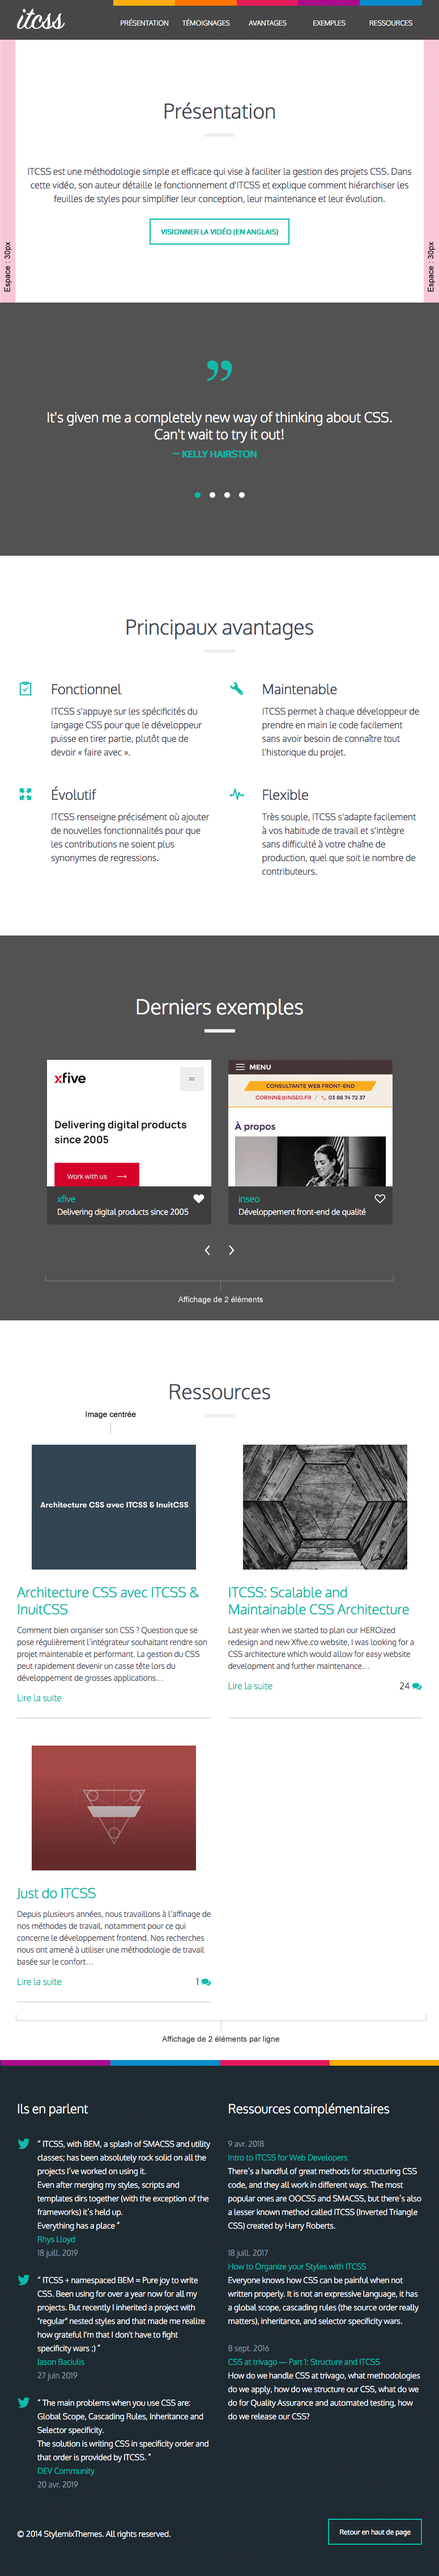
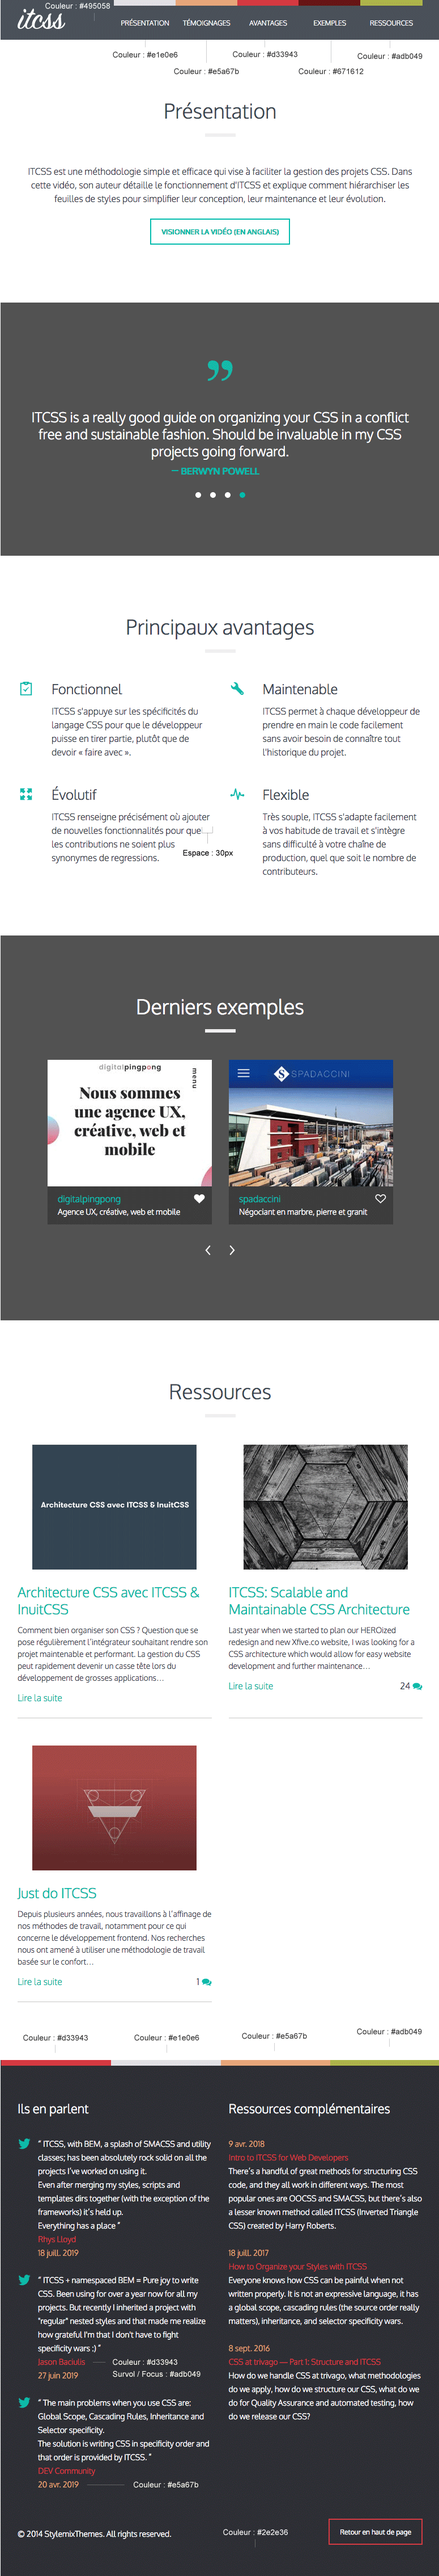
Exercice 3 : Ajouter un thème alternatif

diff --git a/exercice/content/index.html b/exercice/content/index.html
@@ -225,9 +225,9 @@
     <section class="c-section" id="asset">
       <div class="o-wrapper">
         <h2 class="c-h1">Ressources</h2>
-        <div class="o-layout">
-          <div class="o-layout__item o-layout__item--third c-card">
-            <a href="#" tabindex="-1">
+        <div class="o-layout o-layout--wrap@m">
+          <div class="o-layout__item o-layout__item--third o-layout__item--half@m c-card">
+            <a class="u-txt-center" href="#" tabindex="-1">
               <img class="c-card__img" src="img/ITCSS&InuitCSS.png" alt="Architecture CSS avec ITCSS & InuitCSS" />
             </a>
             <h3 class="c-h2">
@@ -238,8 +238,8 @@
               <a href="#" tabindex="-1">Lire la suite</a>
             </span>
           </div>
-          <div class="o-layout__item o-layout__item--third c-card">
-            <a href="#" tabindex="-1">
+          <div class="o-layout__item o-layout__item--third o-layout__item--half@m c-card">
+            <a class="u-txt-center" href="#" tabindex="-1">
               <img class="c-card__img" src="img/xfive.jpg" alt="ITCSS: Scalable and Maintainable CSS Architecture" />
             </a>
             <h3 class="c-h2">
@@ -254,8 +254,8 @@
               </span>
             </span>
           </div>
-          <div class="o-layout__item o-layout__item--third c-card">
-            <a href="#" tabindex="-1">
+          <div class="o-layout__item o-layout__item--third o-layout__item--half@m c-card">
+            <a class="u-txt-center" href="#" tabindex="-1">
               <img class="c-card__img" src="img/justdoITCSS.jpg" alt="Just do ITCSS" />
             </a>
             <h3 class="c-h2">
@@ -341,7 +341,12 @@
       type: 'carousel',
       startAt: 0,
       perView: 3,
-      gap: 30
+      gap: 30,
+      breakpoints: {
+        991: {
+          perView: 2
+        }
+      }
     }).mount();
     new Glide('.js-glide--testimony', {
       type: 'carousel',

diff --git a/helpers/_settings.color.scss b/helpers/_settings.color.scss
@@ -1,0 +1,60 @@
+@if $toc {
+  /* - Color____________________Default colors */
+} @else {
+  /* Colors (settings)
+    ========================================================================== */
+
+  /**
+  * @note Colors are named thanks to the [Chir.ag’s Name that Color utility](http://chir.ag/projects/name-that-color/).
+  */
+
+  :root {
+    // Definition (color)
+    --amaranth: #e51c5e;
+    --blaze-orange: #fc7100;
+    --caribbean-green: #02baab;
+    --cerulean: #0c8fcc;
+    --ebony-clay: #1f2a32;
+    --regent-gray: #85939f;
+    --tundora: #474747;
+    --violet-eggplant: #ae0f8d;
+    --yellow-sea: #ffae00;
+
+    // Definition (function)
+    --gradient: linear-gradient(
+      to right,
+      var(--violet-eggplant) 25%,
+      var(--cerulean) 25%,
+      var(--cerulean) 50%,
+      var(--amaranth) 50%,
+      var(--amaranth) 75%,
+      var(--yellow-sea) 75%,
+      var(--yellow-sea) 100%
+    );
+
+    /** Abbreviations
+    /*  - bgc => background-color
+    /*  - bgi => background-image
+    /*  - bdc => border-color
+    /*  - txt => text (color)
+    */
+
+    // Assignation (components)
+    --button--dark-bdc: var(--caribbean-green);
+    --button--dark-focus-hover-bdc: var(--yellow-sea);
+
+    --footer-bgc: var(--ebony-clay);
+    --footer__before-bgi: var(--gradient);
+    --footer__link-txt: var(--caribbean-green);
+    --footer__link-focus-hover-txt: var(--yellow-sea);
+    --footer__date-txt: var(--regent-gray);
+
+    --header-bgc: var(--tundora);
+
+    --nav__item--presentation: var(--yellow-sea);
+    --nav__item--testimony: var(--blaze-orange);
+    --nav__item--benefit: var(--amaranth);
+    --nav__item--example: var(--violet-eggplant);
+    --nav__item--asset: var(--cerulean);
+  }
+}

diff --git a/exercice/assets/styles/objects/_objects.layout.scss b/exercice/assets/styles/objects/_objects.layout.scss
@@ -31,4 +31,18 @@
   .o-layout--wrap .o-layout__item--half:nth-child(-n + 2) {
     margin-bottom: rem(48); // 48px
   }
+
+  // Specific layout on medium breakpoint
+  // Until 992px (lower or equal to 991px)
+  @media screen and (max-width: 61.9375rem) {
+    .o-layout--wrap\@m {
+      flex-wrap: wrap;
+    }
+    .o-layout__item--half\@m {
+      width: calc(100% / 2 - (1.875rem * 1 / 2)); // 1.875rem = 30px
+    }
+    .o-layout--wrap\@m .o-layout__item--half\@m:nth-child(-n + 2) {
+      margin-bottom: rem(48); // 48px
+    }
+  }
 }

diff --git a/exercice/assets/styles/objects/_objects.wrapper.scss b/exercice/assets/styles/objects/_objects.wrapper.scss
@@ -10,8 +10,16 @@
   */
 
   .o-wrapper {
-    margin-right: auto;
-    margin-left: auto;
-    max-width: rem(930); // 930px
+    padding-right: rem(30); // 30px
+    padding-left: rem(30); // 30px
+
+    // From 992px (992px or higher)
+    @media screen and (min-width: 62rem) {
+      margin-right: auto;
+      margin-left: auto;
+      padding-right: 0;
+      padding-left: 0;
+      max-width: rem(930); // 930px
+    }
   }
 }

diff --git a/exercice/assets/styles/components/_components.footer.scss b/exercice/assets/styles/components/_components.footer.scss
@@ -23,7 +23,7 @@
     top: 0;
     left: 50%;
     height: rem(10); // 10px
-    width: rem(930); // 930px
+    width: 100%;
     transform: translateX(-50%);
     background-image: linear-gradient(
       to right,
@@ -35,6 +35,11 @@
       #ffae00 75%,
       #ffae00 100%
     );
+
+    // From 992px (992px or higher)
+    @media screen and (min-width: 62rem) {
+      width: rem(930); // 930px
+    }
   }
 
   .c-footer__list {

diff --git a/exercice/assets/styles/components/_components.glide-theme.scss b/exercice/assets/styles/components/_components.glide-theme.scss
@@ -57,6 +57,13 @@
   .glide--arrow {
     display: flex;
     flex-direction: column;
+
+    // Until 992px (lower or equal to 991px)
+    @media screen and (max-width: 61.9375rem) {
+      margin-right: auto;
+      margin-left: auto;
+      width: rem(610); // 610px
+    }
   }
 
   .glide--arrow .glide {

diff --git a/exercice/assets/styles/utilities/_utilities.text-center.scss b/exercice/assets/styles/utilities/_utilities.text-center.scss
@@ -1,0 +1,11 @@
+@if $toc {
+  /* - Text center______________Text align center helper classes */
+} @else {
+  /* Text align center (utility)
+   ========================================================================== */
+
+  .u-txt-center {
+    display: block;
+    text-align: center;
+  }
+}

diff --git a/exercice/assets/styles/toc.css b/exercice/assets/styles/toc.css
@@ -41,3 +41,4 @@
 /*
 /* UTILITIES */
 /* - Margin___________________Simple margin helper classes */
+/* - Text center______________Text align center helper classes */

diff --git a/exercice/ENONCE.md b/exercice/ENONCE.md
@@ -1,13 +1,11 @@
-# Exercice 2 : Ajouter un soupçon de responsive
+# Exercice 3 : Ajouter un thème alternatif
 
 <!--
 SI TU UTILISES UN ÉDITEUR CAPABLE DE PRÉVISUALISER MARKDOWN,
 FAIS-LE.  PAR EXEMPLE, DANS VS CODE, CMD/CTRL+SHIFT+V AFFICHE LA PRÉVISUALISATION.
 -->
 
-La page n'est pas vraiment responsive… On va donc faire une petite mise à jour en commençant par mettre en place un premier *breakpoint* à 992px.
-
-Pour cela, on aura recours aux _media queries_.
+Et si on mettait en place un thème de Noël, en se reposant sur le mécanisme des [propriétés personnalisées CSS](https://developer.mozilla.org/fr/docs/Web/CSS/Using_CSS_custom_properties) ?
 
 ## Résultat attendu
 
@@ -15,18 +13,20 @@ Pour cela, on aura recours aux _media queries_.
 
 ## Tâches de cet exercice
 
-Sous ce _breakpoint_ :
-
-1. La section « Principaux avantages » doit s'afficher correctement sur deux colonnes ;
-2. Le carrousel « Derniers exemples » passe de trois à deux colonnes, ce qui nécessite de remplacer l’invocation de Glide.js en bas de `index.html` par celle fournie dans [`helpers/glide.js`](../helpers/glide.js) ;
-3. La section « Ressources » passe elle aussi à deux colonnes, ce qui implique de modifier les marges basses des éléments n'appartenant pas à la dernière ligne.
-
-## _Media query_ ou classe de suffixe responsive conventionnelle ?
-
-- Pour du changement général, les _media queries_ classiques iront très bien ;
-- Pour un comportement très ponctuel et spécifique, une classe de suffixe responsive sera sans doute plus pertinente.
+1. Récupère le fichier [`helpers/_settings.color.scss`](../helpers/_settings.color.scss) et copie-le dans `exercice/assets/styles/settings` (sous-dossier à créer).
+2. Pense à ajouter son import Sass au tout début de la feuille de styles globale `exercice/assets/styles/styles.scss` (afin que les variables qui y sont définies soient accessibles de tous les autres styles).
+3. On va se focaliser sur l’en-tête et le pied de page, donc remplace les codes couleurs « en dur » dans les feuilles de style associées par des références aux variables du fichier de _settings_.
+   - Remarque qu’on a déclaré dans un premier temps les variables de couleurs (ex. `--amaranth`), et dans un second temps des variables plus sémantiques, à titre « d’alias » (ex. `--nav__item--benefit`). Utilise plutôt la seconde forme. L’idée est de centraliser dans le fichier de _settings_ les réutilisations / harmonisations de couleur à travers le thème, plutôt que d’en laisser le soin aux différentes feuilles de styles.
+4. Duplique le fichier de couleurs dans le même dossier, sous le nom `_settings.color-christmas.scss`, et utilise la classe `.t-christmas` (note le préfixe conventionnel de thème `.t-`) au lieu de la portée de variable CSS par défaut `:root`.
+5. Ajoute la classe `t-christmas` sur la balise `<body>` du HTML.
+6. Crée les nouvelles variables de couleurs (cf. Astuce plus bas) pour les nouveaux codes figurant sur [la maquette](./RESULT_ATTENDU.png).
+7. Altère les aliases appropriés pour qu’ils utilisent les bonnes variables de couleur, et vois ton thème prendre vie !
 
 ## Astuce
 
-- Les bonnes syntaxes de _media queries_ sont fournies dans [`helpers/breakpoint.css`](./../helpers/breakpoint.css), tu n’as plus qu’à les copier-coller aux endroits pertinents pour démarrer.
-- Pense bien à échapper le `@` dans le code source de tes sélecteurs CSS pour des suffixes responsive (ex. `.o-something\@md`). Vu le _breakpoint_ qu’on retient ici, on n’est pas tellement sur du _small_ ou du _large_ mais plutôt du *medium* : on te suggère `@md` ou `@m` comme suffixe.
+Pour donner des noms valables à tes couleurs, fais comme Corinne : utilise le super outil [Name that Color](http://chir.ag/projects/name-that-color/) !
+
+## Bonus
+
+- As-tu bien pensé à utiliser des variables sémantiques de couleur **pour les pointes de survol de navigation aussi** ?
+- Essaie de placer la classe de thème sur un périmètre moins global que `<body>` : et voilà ton thème périmétré à une seule partie (ex. le pied de page) ! Voilà la puissance des variables CSS, qui utilisent la cascade, par rapport à une simple interpolation globale de variable Sass !
